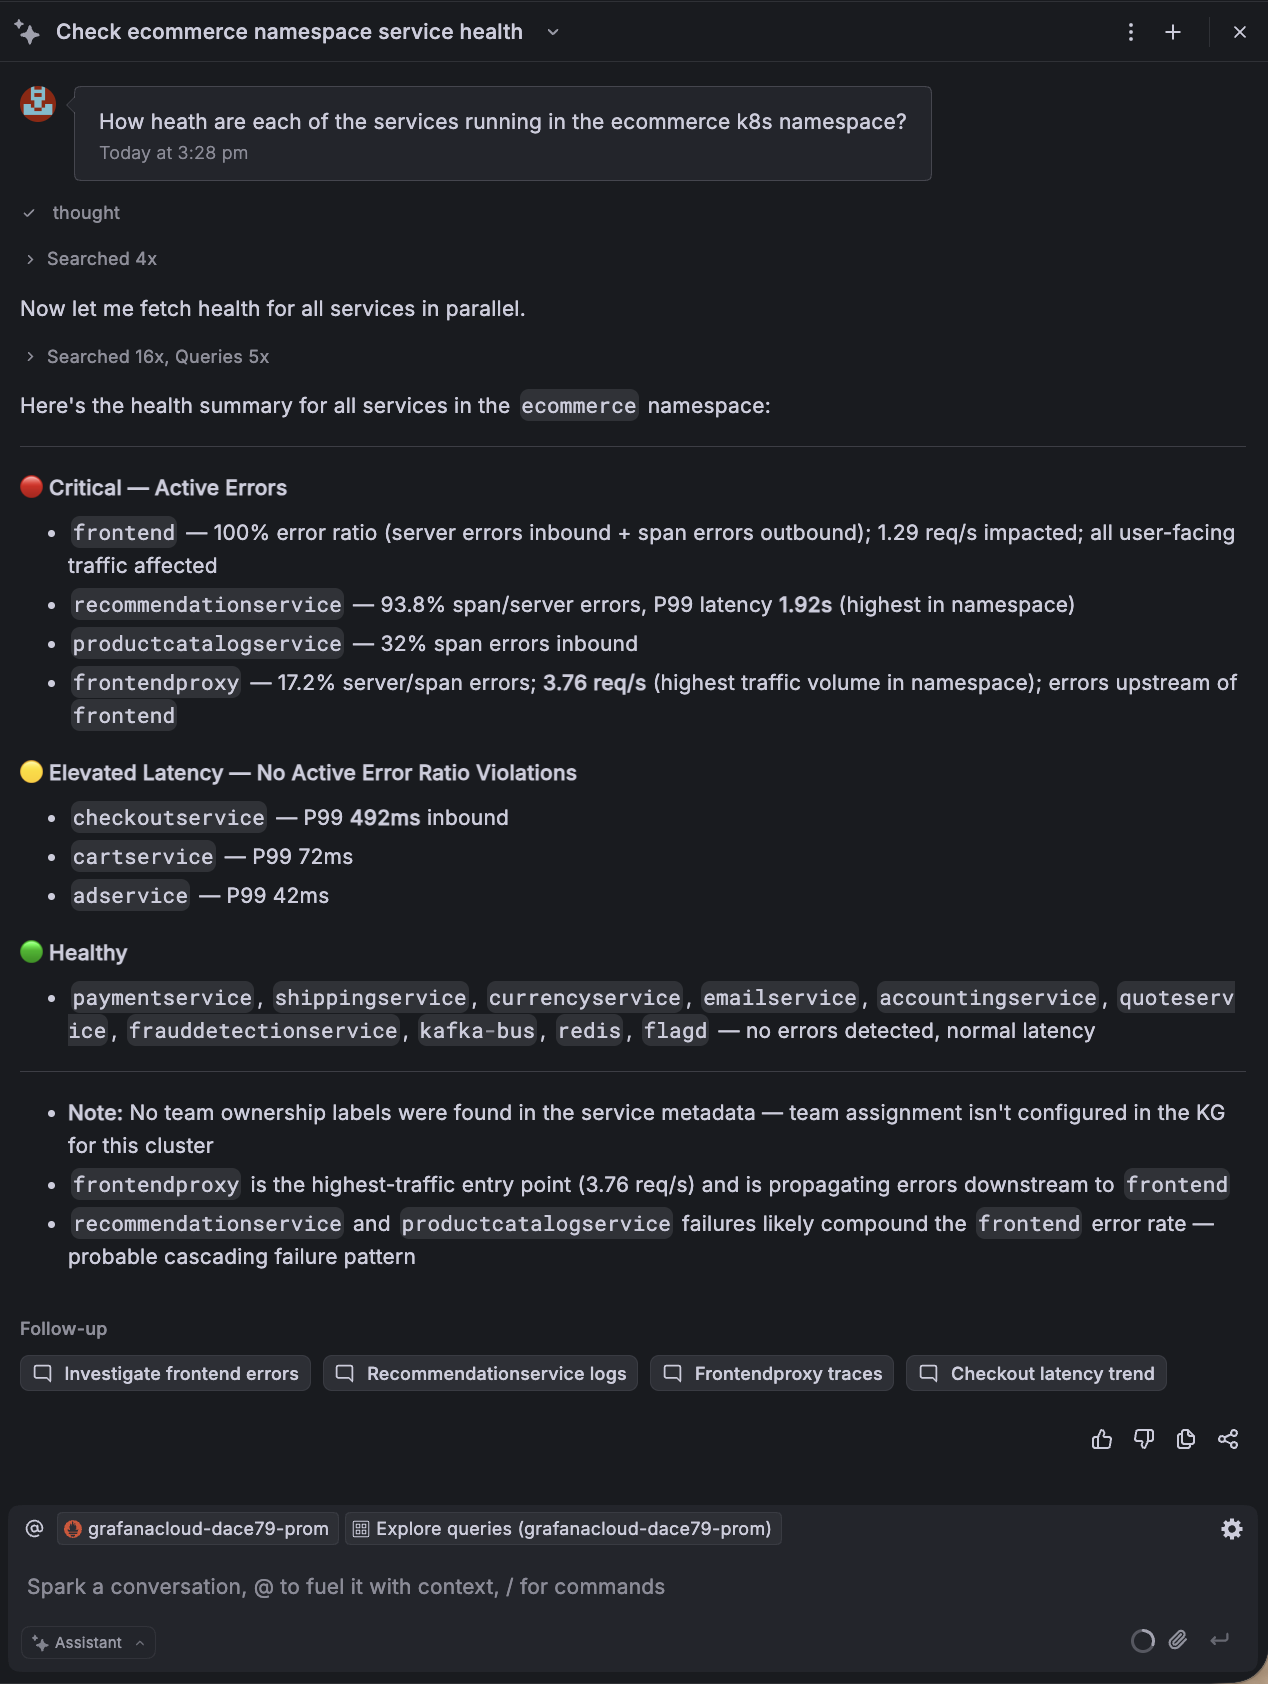
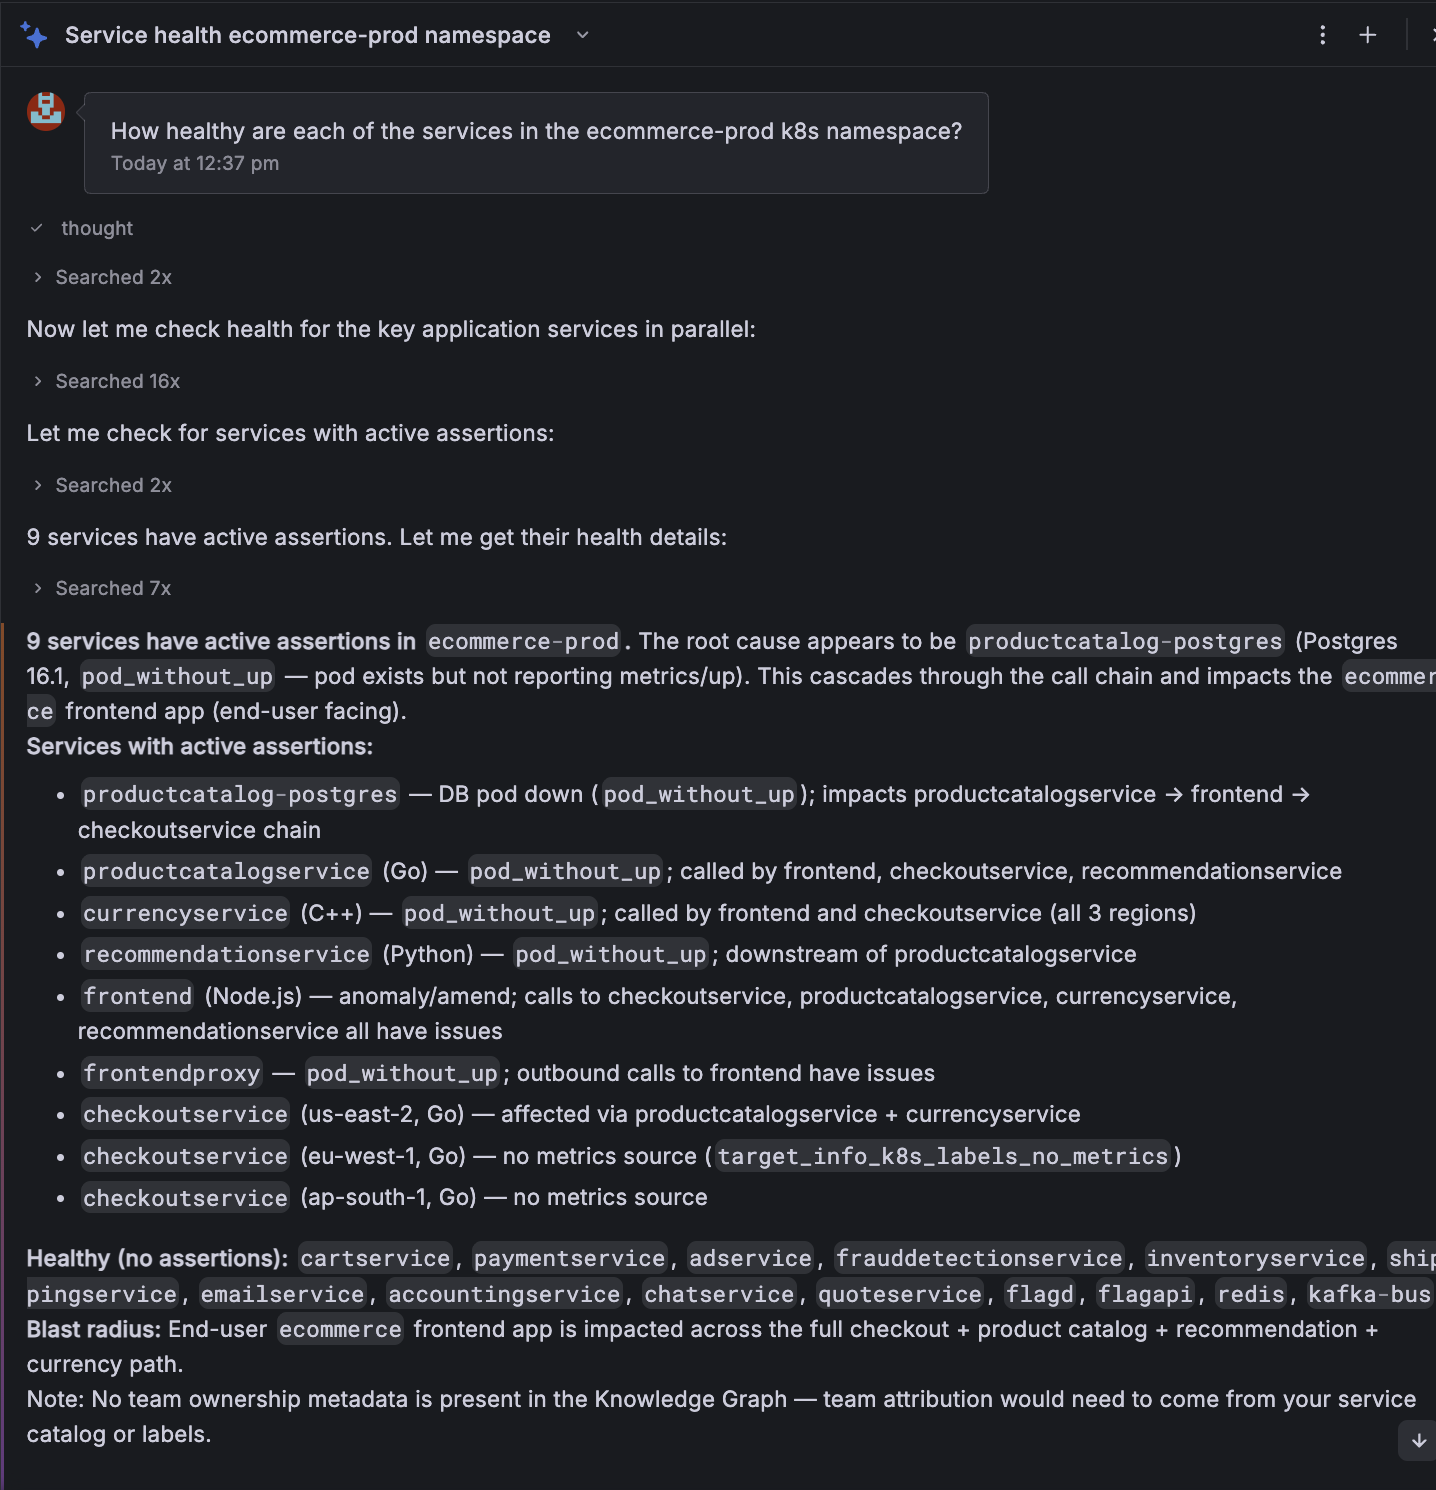
fixed

Changed region(s): [[0.0, 0.0, 1.0, 0.9879], [0.9842, 0.957, 1.0, 1.0], [0.3691, 0.1544, 0.3998, 0.1852]]

diff --git a/site/docs/lab3/explore.md b/site/docs/lab3/explore.md
@@ -96,7 +96,7 @@ Now things should be nice and broken...
 
 Ask Assistant:
 
-> How healthy are the services in the `ecommerce` k8s namespace?
+> How healthy are the services in the `ecommerce-prod` k8s namespace?
 
 This is a more in-depth question, and Assistant will likely spin up multiple agents to do this asynchronously. As before, it will look for all the services in Knowledge Graph, look to understand what data sources are available and then query metrics, logs and traces to determine the health. 
 
